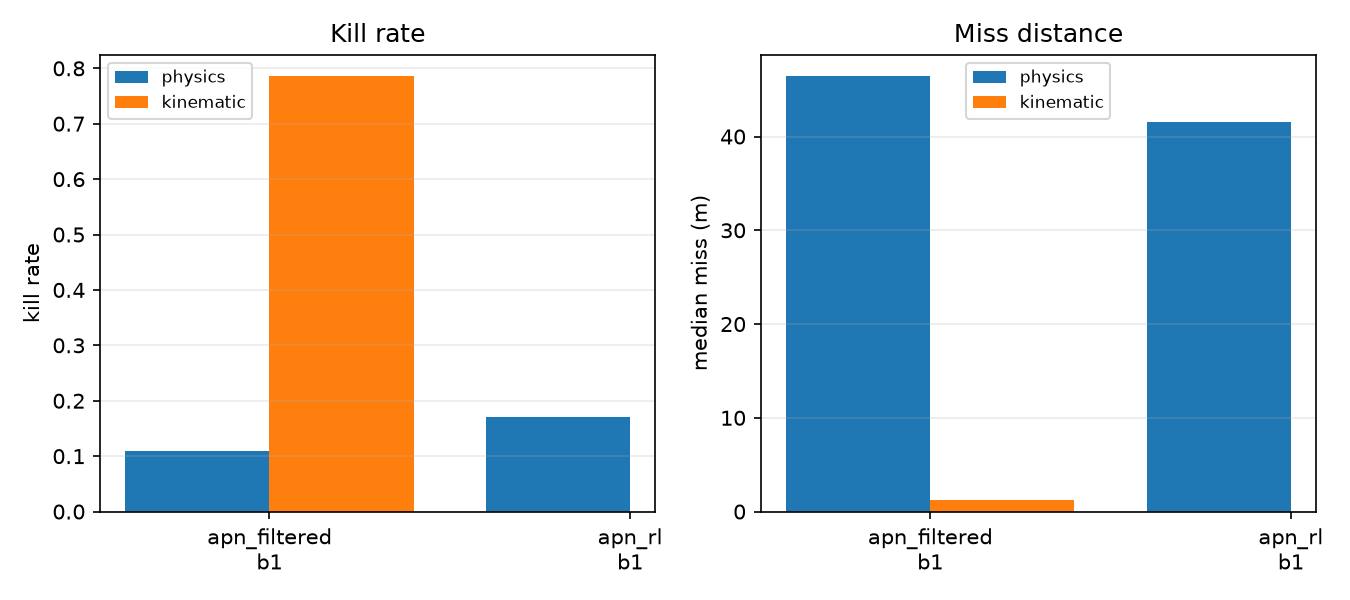
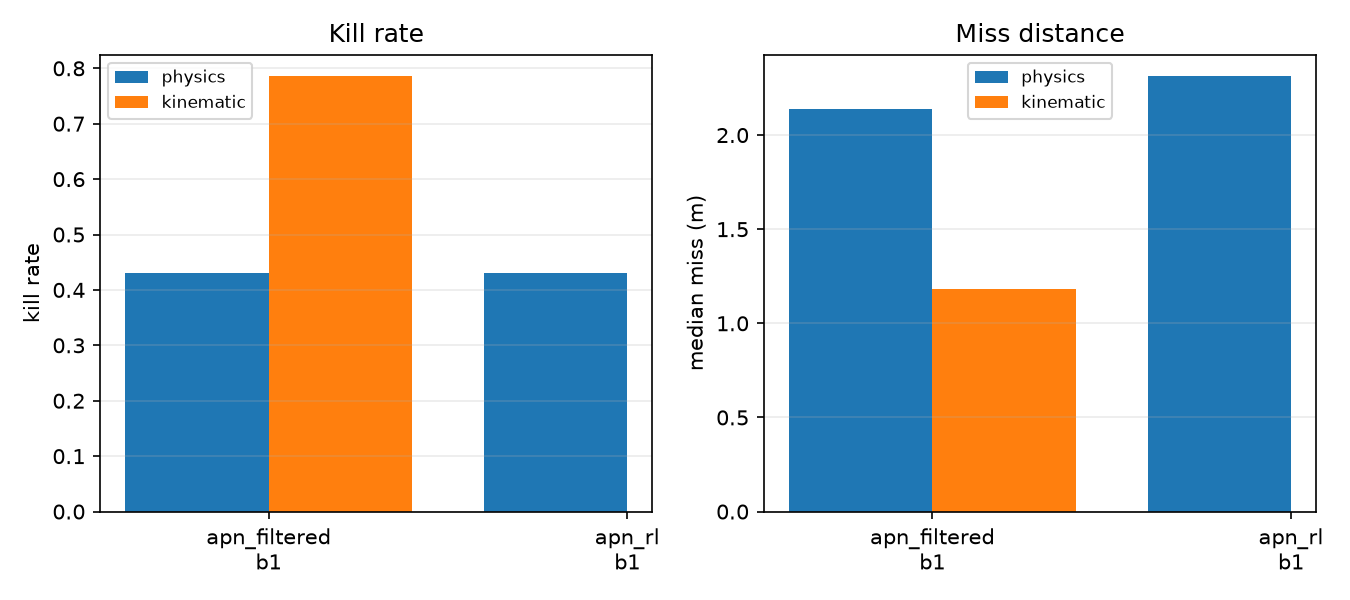
wip: closed-loop quad with the firmware thrust cap (A2 11 -> 43 %), snapshot-based checkpoint selection, A3 validation at 2M steps
Closed-loop quad re-evaluated with mixer_capped: A2 and A3 43 % (median
miss 2.1-2.3 m). Runner keeps snapshots; scripts/select_checkpoint.py picks
one on validation data. A3 at 2M steps and sigma0 = 0.1 does not beat the
zero-residual command on validation seeds (a3_validation_2M.csv).
Paused: FC snapshot selection and the A3 test-seed tables are not run yet.

diff --git a/scripts/select_checkpoint.py b/scripts/select_checkpoint.py
@@ -1,0 +1,138 @@
+"""Best-checkpoint selection on validation data (early stopping).
+
+PPO returns are not monotone in training steps: the flight-controller run
+``p7_fc_asym_s0`` peaked near 360k steps (mean episode reward -344) and fell to
+-1958 at 1M (``runs/p7_fc_asym_s0/curves.csv``).  The runner therefore keeps a
+snapshot at every checkpoint (``runs/<id>/snapshots/step_*.zip``) and this script
+picks one of them on VALIDATION data that is disjoint from training and from the
+evaluation seeds of the result tables.
+
+Flight controller (``--task fc``): 10 setpoint sequences of each kind, nominal
+physics, seeds 9000 + 100 * kind + i (evaluation uses 7000 + ...).  Score = mean
+over the six kinds of the median rate-tracking RMS error (rad/s); lowest wins.
+
+Guidance (``--task guidance``): evasive set, 4 episodes per manoeuvre, seeds
+20000 + 100 * manoeuvre + k (evaluation uses 10000 + k).  Highest kill rate
+wins; ties are broken by the lower median miss distance.
+
+The rule is fixed here before any snapshot is scored.  The chosen snapshot is
+copied to ``runs/<id>/best.zip`` and the scores of all snapshots are written to
+``results/tables/checkpoint_selection_<id>.csv``.
+
+    python scripts/select_checkpoint.py --task fc --run p8_fc_asym_s0
+    python scripts/select_checkpoint.py --task guidance --run p9e_quadcopter_sigma0.1_s0 --platform quadcopter
+"""
+from __future__ import annotations
+
+import argparse
+import csv
+import os
+import shutil
+import sys
+from concurrent.futures import ProcessPoolExecutor
+from pathlib import Path
+
+import numpy as np
+
+sys.path.insert(0, str(Path(__file__).resolve().parents[1]))
+ROOT = Path(__file__).resolve().parents[1]
+
+FC_VAL_SEED0 = 9000
+FC_VAL_SEQUENCES = 10
+G_VAL_SEED0 = 20000
+G_VAL_EPISODES = 4
+
+
+def _quiet():
+    os.environ["OMP_NUM_THREADS"] = "1"
+    import warnings
+    import torch
+    torch.set_num_threads(1)
+    warnings.filterwarnings("ignore")
+
+
+def _score_fc(job):
+    path, _ = job
+    _quiet()
+    from stable_baselines3 import PPO
+    from interceptor.bridge.closed_loop import PolicyRateController
+    from interceptor.fc import metrics, rollout, setpoints
+    from interceptor.sim import pipeline
+    model = PPO.load(str(path), device="cpu")
+    dt, n_steps = 0.002, 750
+    per_kind = []
+    for ki, kind in enumerate(setpoints.KINDS):
+        vals = []
+        for i in range(FC_VAL_SEQUENCES):
+            rng = np.random.default_rng(FC_VAL_SEED0 + 100 * ki + i)
+            sp = setpoints.sample(kind, n_steps, dt, rng, 12.0)
+            log = rollout.rollout(PolicyRateController(model, rate_max=12.0), sp,
+                                  params=pipeline.PhysicsParams.rotor_drag(), dt=dt)
+            m = metrics.tracking_metrics(log["t"], log["setpoint"][:, :3], log["omega"], log["cmd"])
+            vals.append(m["rms"])
+        per_kind.append(float(np.median(vals)))
+    return {"snapshot": Path(path).name, "score_rms": float(np.mean(per_kind)),
+            **{f"rms_{k}": v for k, v in zip(setpoints.KINDS, per_kind)}}
+
+
+def _score_guidance(job):
+    path, platform = job
+    _quiet()
+    from stable_baselines3 import PPO
+    from interceptor.guidance.env import UnifiedInterceptEnv
+    from interceptor.guidance.maneuvers import ManeuverType, PlatformType
+    model = PPO.load(str(path), device="cpu")
+    kills, misses = [], []
+    for i, man in enumerate(ManeuverType):
+        for k in range(G_VAL_EPISODES):
+            env = UnifiedInterceptEnv(platform=PlatformType(platform), mode="apn_rl",
+                                      target_set="evasive", fixed_maneuver=man,
+                                      seed=G_VAL_SEED0 + 100 * i + k)
+            obs, _ = env.reset()
+            done = False
+            while not done:
+                obs, _, term, trunc, _ = env.step(model.predict(obs, deterministic=True)[0])
+                done = term or trunc
+            kills.append(bool(env.last_info["killed"]))
+            misses.append(float(env.min_miss_distance))
+    return {"snapshot": Path(path).name, "episodes": len(kills), "kills": int(np.sum(kills)),
+            "kill_rate": float(np.mean(kills)), "median_miss": float(np.median(misses))}
+
+
+def main(argv=None) -> int:
+    ap = argparse.ArgumentParser(description=__doc__)
+    ap.add_argument("--task", choices=["fc", "guidance"], required=True)
+    ap.add_argument("--run", required=True)
+    ap.add_argument("--platform", default="quadcopter")
+    ap.add_argument("--workers", type=int, default=os.cpu_count() or 2)
+    ap.add_argument("--min-step", type=int, default=0)
+    args = ap.parse_args(argv)
+
+    run = ROOT / "runs" / args.run
+    snaps = sorted((run / "snapshots").glob("step_*.zip"))
+    snaps = [s for s in snaps if int(s.stem.split("_")[1]) >= args.min_step]
+    if not snaps:
+        raise SystemExit(f"no snapshots in {run / 'snapshots'}")
+    fn = _score_fc if args.task == "fc" else _score_guidance
+    with ProcessPoolExecutor(max_workers=args.workers) as ex:
+        rows = list(ex.map(fn, [(s, args.platform) for s in snaps]))
+    if args.task == "fc":
+        best = min(rows, key=lambda r: r["score_rms"])
+    else:
+        best = min(rows, key=lambda r: (-r["kill_rate"], r["median_miss"]))
+    for r in rows:
+        r["selected"] = int(r is best)
+    out = ROOT / "results" / "tables" / f"checkpoint_selection_{args.run}.csv"
+    with out.open("w", newline="", encoding="utf-8") as fh:
+        w = csv.DictWriter(fh, fieldnames=list(rows[0]))
+        w.writeheader()
+        w.writerows(rows)
+    shutil.copyfile(run / "snapshots" / best["snapshot"], run / "best.zip")
+    for r in rows:
+        print({k: (round(v, 3) if isinstance(v, float) else v) for k, v in r.items()})
+    print("selected", best["snapshot"], "->", run / "best.zip")
+    return 0
+
+
+if __name__ == "__main__":
+    raise SystemExit(main())

diff --git a/scripts/evaluate_guidance_arms.py b/scripts/evaluate_guidance_arms.py
@@ -37,6 +37,15 @@ def _run_cell(job) -> dict:
     platform, arm, mode, target_set, behavior, episodes, seed0, policy_path = job
     from stable_baselines3 import PPO
     policy = PPO.load(policy_path, device="cpu")
+    # Evaluate in the environment the policy was trained in: a run trained with a
+    # non-default residual authority (P9.3) records it in its config.json.
+    extra = {}
+    cfg_path = Path(policy_path).parent / "config.json"
+    if cfg_path.exists():
+        import json
+        auth = (json.loads(cfg_path.read_text(encoding="utf-8")).get("guidance") or {}).get("residual_authority")
+        if auth is not None and mode == "apn_rl":
+            extra["residual_authority"] = float(auth)
     kills, misses, times = [], [], []
     for k in range(episodes):
         kwargs = {"fixed_maneuver": ManeuverType(behavior)} if target_set == "evasive" else {}
@@ -44,7 +53,7 @@ def _run_cell(job) -> dict:
             kwargs["polynomial_order"] = int(behavior) if behavior != "static" else 1
         env = UnifiedInterceptEnv(platform=PlatformType(platform), mode=mode,
                                   target_set=target_set, noise_scale=1.0,
-                                  seed=seed0 + k, **kwargs)
+                                  seed=seed0 + k, **kwargs, **extra)
         obs, _ = env.reset()
         done = False
         while not done:

diff --git a/training/runner.py b/training/runner.py
@@ -152,6 +152,11 @@ class _CheckpointCallback:
 
             def _save(self):
                 self.model.save(str(self.save_dir / "checkpoint.zip"))
+                # Periodic snapshots allow best-checkpoint selection on validation data
+                # (early stopping): PPO returns are not monotone in training steps.
+                snap = self.save_dir / "snapshots"
+                snap.mkdir(exist_ok=True)
+                self.model.save(str(snap / f"step_{int(self.model.num_timesteps):08d}.zip"))
                 if hasattr(self.model, "save_replay_buffer"):
                     try:
                         self.model.save_replay_buffer(
